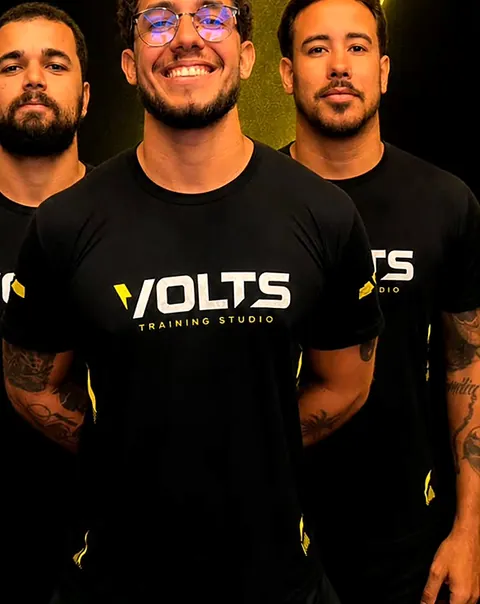
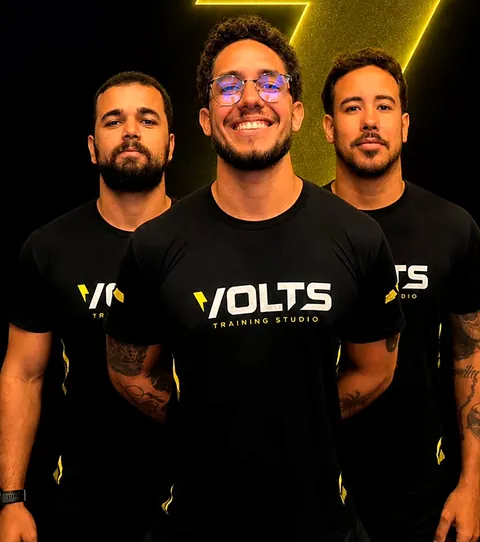
Ajustes do cliente: frase sem prender a rolagem, Já é aluno no topo, foto da equipe
- Manifesto não fica mais fixo: a frase acende sozinha ao entrar na tela
- Já é aluno? sobe para o topo do bloco Como chegar, entra no cabeçalho (desktop) e no menu do celular
- Foto dos professores refeita com as cabeças inteiras, sem os traços de neon por cima
- Título da equipe dividido por palavras (sem linhas quebradas no celular)
- Vidro do cabeçalho num pseudo-elemento: o menu do celular voltava cortado

diff --git a/site/src/secoes/Manifesto.tsx b/site/src/secoes/Manifesto.tsx
@@ -1,6 +1,6 @@
 import { useEffect, useRef } from 'react'
 import { Foto } from '../componentes/Foto'
-import { gsap } from '../lib/rolagem'
+import { gsap, ScrollTrigger } from '../lib/rolagem'
 import './Manifesto.css'
 
 // frase da própria Volts (legendas de 05/10/2026); as palavras-chave acendem em amarelo
@@ -14,15 +14,15 @@ export function Manifesto() {
   useEffect(() => {
     const raiz = ref.current!
     const ctx = gsap.context(() => {
+      // a frase acende sozinha, palavra por palavra, quando entra na tela: a página não para aqui
       const palavras = gsap.utils.toArray<HTMLElement>('.mf-p')
-      const tl = gsap.timeline({
-        scrollTrigger: { trigger: '.mf-fixo', start: 'top top', end: '+=140%', pin: true, scrub: 0.6, anticipatePin: 1 },
-      })
-      tl.to(palavras, { opacity: 1, stagger: 0.12, duration: 0.5, ease: 'none' }, 0)
-        .to('.mf-p--chave', { color: '#d6f600', textShadow: '0 0 28px rgba(214,246,0,.45)', stagger: 0.6, duration: 0.4, ease: 'none' }, 0.3)
-        .fromTo('.mf-carga i', { scaleX: 0 }, { scaleX: 1, ease: 'none', duration: tl.duration() || 3 }, 0)
+      const tl = gsap.timeline({ paused: true })
+      tl.to(palavras, { opacity: 1, stagger: 0.045, duration: 0.45, ease: 'power1.out' }, 0)
+        .to('.mf-p--chave', { color: '#d6f600', textShadow: '0 0 28px rgba(214,246,0,.45)', stagger: 0.18, duration: 0.5, ease: 'power1.out' }, 0.5)
+        .fromTo('.mf-carga i', { scaleX: 0 }, { scaleX: 1, ease: 'power2.inOut', duration: tl.duration() || 2 }, 0)
+      ScrollTrigger.create({ trigger: '.mf-texto', start: 'top 78%', once: true, onEnter: () => tl.play() })
 
-      // equipe: a foto abre pelo corte diagonal, a moldura de neon se desenha
+      // equipe: a foto abre pelo corte diagonal
       gsap.fromTo(
         '.mf-foto-recorte',
         { clipPath: 'polygon(0 0, 0 0, 0 100%, 0 100%)' },
@@ -34,11 +34,6 @@ export function Manifesto() {
         },
       )
       gsap.fromTo('.mf-foto img', { scale: 1.12 }, { scale: 1, ease: 'none', scrollTrigger: { trigger: '.mf-equipe', start: 'top bottom', end: 'bottom top', scrub: true } })
-      gsap.fromTo(
-        '.mf-moldura rect',
-        { strokeDashoffset: 1 },
-        { strokeDashoffset: 0, duration: 1.8, ease: 'power2.inOut', stagger: 0.25, scrollTrigger: { trigger: '.mf-equipe', start: 'top 65%', once: true } },
-      )
       gsap.from('.mf-citacao span', {
         yPercent: 120,
         opacity: 0,
@@ -74,12 +69,8 @@ export function Manifesto() {
       <div className="recipiente mf-equipe">
         <figure className="mf-foto">
           <div className="mf-foto-recorte">
-            <Foto nome="professores" alt="Três professores da Volts com a camisa preta do estúdio" sizes="(max-width: 899px) 92vw, 46vw" posicao="50% 4%" />
+            <Foto nome="professores" alt="Três professores da Volts com a camisa preta do estúdio" sizes="(max-width: 899px) 92vw, 46vw" posicao="50% 6%" />
           </div>
-          <svg className="mf-moldura" viewBox="0 0 100 100" preserveAspectRatio="none" aria-hidden="true">
-            <rect x="-3" y="-4" width="58" height="52" pathLength={1} className="q" />
-            <rect x="6" y="5" width="30" height="30" pathLength={1} className="v" />
-          </svg>
           <figcaption className="rotulo">Equipe Volts</figcaption>
         </figure>
         <div className="mf-equipe-texto">

diff --git a/site/src/secoes/Cabecalho.css b/site/src/secoes/Cabecalho.css
@@ -2,17 +2,27 @@
   position: fixed;
   inset: 0 0 auto 0;
   z-index: 50;
-  /* vidro translúcido: sempre visível sem apagar o salão 3D atrás */
+  box-shadow: 0 1px 0 rgba(238, 242, 234, 0.07);
+}
+/*
+ * Vidro translúcido: sempre visível sem apagar o salão 3D atrás. Fica num pseudo-elemento porque
+ * backdrop-filter no próprio cabeçalho prenderia o menu do celular (position: fixed) dentro dele.
+ */
+.cabecalho::before {
+  content: '';
+  position: absolute;
+  inset: 0;
+  z-index: -1;
   background: rgba(6, 9, 7, 0.24);
   -webkit-backdrop-filter: blur(12px) saturate(1.25);
   backdrop-filter: blur(12px) saturate(1.25);
-  box-shadow: 0 1px 0 rgba(238, 242, 234, 0.07);
   transition: background-color 0.5s var(--ease);
+  pointer-events: none;
 }
-.cabecalho--rolou {
+.cabecalho--rolou::before {
   background: rgba(6, 9, 7, 0.46);
 }
-.cabecalho--aberto {
+.cabecalho--aberto::before {
   background: var(--ink-0);
 }
 .cabecalho__barra {
@@ -70,6 +80,43 @@
   display: flex;
   align-items: center;
   gap: 10px;
+}
+.cabecalho__aluno {
+  position: relative;
+  margin-right: 8px;
+  padding: 10px 0;
+  font-family: var(--f-display);
+  font-weight: 700;
+  font-stretch: 106%;
+  font-size: 0.78rem;
+  letter-spacing: 0.07em;
+  text-transform: uppercase;
+  color: var(--fg);
+  text-decoration: underline;
+  text-decoration-color: var(--volt);
+  text-underline-offset: 6px;
+  white-space: nowrap;
+}
+.cabecalho__aluno:hover {
+  color: var(--volt);
+}
+.menu-celular__aluno {
+  display: flex;
+  align-items: center;
+  justify-content: space-between;
+  gap: 16px;
+  padding: 16px 18px;
+  background: var(--ink-3);
+  box-shadow: inset 3px 0 0 var(--volt);
+  font-size: 0.9375rem;
+  color: var(--fg-2);
+}
+.menu-celular__aluno strong {
+  color: var(--fg);
+}
+.menu-celular__aluno svg {
+  flex: none;
+  color: var(--volt);
 }
 .cabecalho__atalho {
   min-height: 44px;
@@ -160,7 +207,8 @@
 }
 
 @media (max-width: 1220px) {
-  .cabecalho__nav {
+  .cabecalho__nav,
+  .cabecalho__aluno {
     display: none;
   }
   .cabecalho__menu {

diff --git a/site/src/lib/efeitos.ts b/site/src/lib/efeitos.ts
@@ -5,7 +5,7 @@ gsap.registerPlugin(SplitText)
 
 /*
  * Efeitos ligados por atributo, para qualquer seção usar sem repetir código:
- *  data-titulo        linhas sobem de dentro de uma máscara quando o título entra na tela
+ *  data-titulo        palavras sobem de dentro de uma máscara quando o título entra na tela
  *  data-decodifica    rótulo que se "decodifica" letra a letra, como um painel ligando
  *  data-inclina       inclina com a velocidade do scroll
  *  data-parallax="n"  desloca n (fração da altura) enquanto atravessa a tela
@@ -38,19 +38,18 @@ export function ligarEfeitos(raiz: HTMLElement) {
   const finos = window.matchMedia('(pointer: fine)').matches
   const ctx = gsap.context(() => {
     raiz.querySelectorAll<HTMLElement>('[data-titulo]').forEach((el) => {
+      // dividido por palavras (não por linhas): as palavras se reorganizam sozinhas em qualquer
+      // largura, então a frase nunca fica com linhas quebradas no celular
       SplitText.create(el, {
-        type: 'lines',
-        mask: 'lines',
-        linesClass: 'linha-mascara',
-        autoSplit: true,
+        type: 'words',
+        mask: 'words',
+        wordsClass: 'palavra-mascara',
         onSplit(self) {
-          return gsap.from(self.lines, {
+          return gsap.from(self.words, {
             yPercent: 105,
-            rotate: 1,
-            transformOrigin: '0% 100%',
-            duration: 1.15,
+            duration: 0.9,
             ease: 'expo.out',
-            stagger: 0.085,
+            stagger: 0.022,
             scrollTrigger: { trigger: el, start: 'top 88%', once: true },
           })
         },

diff --git a/site/src/dados/volts.ts b/site/src/dados/volts.ts
@@ -76,7 +76,7 @@ export const programas: Programa[] = [
     paraQuem: 'Para quem quer acompanhamento próximo e um treino montado para o próprio objetivo.',
     focos: ['Emagrecimento', 'Força', 'Hipertrofia', 'Condicionamento', 'Saúde e qualidade de vida'],
     detalhe: 'Acompanhamento próximo e toda a estrutura da Volts para a sua evolução.',
-    foto: { src: 'professores', alt: 'Professores da Volts com a camisa preta do estúdio', posicao: '50% 30%' },
+    foto: { src: 'professores', alt: 'Professores da Volts com a camisa preta do estúdio', posicao: '50% 0%' },
     acao: { rotulo: 'Quero experimentar', mensagem: 'Oi, Volts! Vim pelo site e quero agendar uma aula experimental de VoltsClass.' },
   },
   {
@@ -137,7 +137,7 @@ export const diferenciais = [
     foto: 'professores',
     alt: 'Três professores da Volts',
     resumo: 'Professores em cada treino',
-    posicao: '50% 30%',
+    posicao: '50% 0%',
   },
   {
     titulo: 'Grupos reduzidos',
@@ -208,7 +208,7 @@ export const perguntas = [
   },
   {
     p: 'Já sou aluno. Onde agendo minhas aulas?',
-    r: 'Na área do aluno, no sistema de agendamento da Volts. O link está no rodapé desta página.',
+    r: 'Na área do aluno, no sistema de agendamento da Volts. O link "Já é aluno?" fica no topo (no menu, pelo celular), no bloco Como chegar e no rodapé desta página.',
   },
 ]
 

diff --git a/site/src/secoes/Cabecalho.tsx b/site/src/secoes/Cabecalho.tsx
@@ -85,6 +85,9 @@ export function Cabecalho() {
         </nav>
 
         <div className="cabecalho__acoes">
+          <a className="cabecalho__aluno" href={contato.areaDoAluno} target="_blank" rel="noopener">
+            Já é aluno?
+          </a>
           <a className="botao botao--fantasma cabecalho__atalho cabecalho__atalho--camisa" href="#comprar-camisa" data-cursor="Comprar">
             <Icone nome="camisa" tamanho={17} className="cabecalho__icone" />
             <span>
@@ -112,6 +115,12 @@ export function Cabecalho() {
       </div>
 
       <div id="menu-celular" ref={painelRef} className="menu-celular" hidden={!aberto} role="dialog" aria-modal="true" aria-label="Menu">
+        <a className="menu-celular__aluno" href={contato.areaDoAluno} target="_blank" rel="noopener">
+          <span>
+            <strong>Já é aluno?</strong> Agende suas aulas na área do aluno.
+          </span>
+          <Icone nome="externo" tamanho={18} />
+        </a>
         <nav aria-label="Seções da página">
           <ol className="menu-celular__lista">
             {LINKS.map((l, i) => (

diff --git a/site/src/secoes/Contato.tsx b/site/src/secoes/Contato.tsx
@@ -22,6 +22,12 @@ export function Contato() {
 
         <div className="contato__grade">
           <div className="contato__info" data-revelar>
+            <a className="contato__aluno" href={contato.areaDoAluno} target="_blank" rel="noopener">
+              <span>
+                <strong>Já é aluno?</strong> Agende suas aulas na área do aluno.
+              </span>
+              <Icone nome="externo" tamanho={18} />
+            </a>
             <dl className="contato__lista">
               <div>
                 <dt>
@@ -89,12 +95,6 @@ export function Contato() {
                 <Icone nome="mapa" /> Abrir rota
               </a>
             </div>
-            <a className="contato__aluno" href={contato.areaDoAluno} target="_blank" rel="noopener">
-              <span>
-                <strong>Já é aluno?</strong> Agende suas aulas na área do aluno.
-              </span>
-              <Icone nome="externo" tamanho={18} />
-            </a>
           </div>
 
           <div className="contato__mapa" data-revelar style={{ ['--atraso' as string]: 120 }}>

diff --git a/site/src/secoes/Manifesto.css b/site/src/secoes/Manifesto.css
@@ -3,11 +3,7 @@
   background: var(--ink-0);
 }
 .mf-fixo {
-  min-height: 100vh;
-  min-height: 100svh;
-  display: flex;
-  align-items: center;
-  padding-block: calc(var(--cabecalho) + 32px) 48px;
+  padding-block: clamp(110px, 12vw, 170px) 24px;
 }
 .mf-texto {
   margin-top: 28px;
@@ -59,29 +55,6 @@
   width: 100%;
   height: 100%;
   object-fit: cover;
-}
-.mf-moldura {
-  position: absolute;
-  inset: 0;
-  width: 100%;
-  height: 100%;
-  overflow: visible;
-  pointer-events: none;
-}
-.mf-moldura rect {
-  fill: none;
-  stroke-width: 1.6px;
-  vector-effect: non-scaling-stroke;
-  stroke-dasharray: 1;
-  stroke-dashoffset: 1;
-}
-.mf-moldura .q {
-  stroke: var(--quente);
-  filter: drop-shadow(0 0 8px rgba(243, 230, 207, 0.6));
-}
-.mf-moldura .v {
-  stroke: var(--neon);
-  filter: drop-shadow(0 0 10px rgba(70, 240, 140, 0.8));
 }
 .mf-foto figcaption {
   margin-top: 16px;

diff --git a/site/src/secoes/Contato.css b/site/src/secoes/Contato.css
@@ -73,13 +73,13 @@
   gap: 10px;
 }
 .contato__aluno {
-  margin-top: auto;
   display: flex;
   align-items: center;
   justify-content: space-between;
   gap: 16px;
   padding: 16px 18px;
   background: var(--ink-3);
+  box-shadow: inset 3px 0 0 var(--volt);
   font-size: 0.9rem;
   color: var(--fg-2);
   transition: box-shadow 0.3s var(--ease);
@@ -92,7 +92,9 @@
   flex: none;
 }
 .contato__aluno:hover {
-  box-shadow: inset 0 0 0 1px var(--volt);
+  box-shadow:
+    inset 3px 0 0 var(--volt),
+    inset 0 0 0 1px var(--volt);
 }
 
 .contato__mapa {

diff --git a/site/src/estilos/base.css b/site/src/estilos/base.css
@@ -517,10 +517,10 @@ body.pausado *::after {
     --ang: 360deg;
   }
 }
-/* títulos divididos em linhas pelo SplitText */
-.linha-mascara {
-  padding-bottom: 0.08em;
-  margin-bottom: -0.08em;
+/* títulos divididos em palavras pelo SplitText (a máscara não corta as letras que descem) */
+.palavra-mascara {
+  padding-bottom: 0.12em;
+  margin-bottom: -0.12em;
 }
 
 html.travado {

diff --git a/ferramentas/imagens.py b/ferramentas/imagens.py
@@ -20,7 +20,9 @@ FOTOS = {
     "fachada-raio": dict(src="quadros/fachada-raio-a.jpg", box=(0, 0.04, 0.70, 0.92), larguras=[420, 560], grade="leve"),
     "fachada": dict(src="quadros/fachada-ext-a.jpg", box=(0, 0.13, 1, 0.56), larguras=[480, 720], grade="leve"),
     "equipamentos": dict(src="quadros/equip-a.jpg", box=(0, 0.02, 1, 0.66), larguras=[480, 720], grade="neon"),
-    "professores": dict(src="Dcvn-bJunIQ_hd.jpg", box=(0.46, 0.49, 1, 1), larguras=[480, 780], grade="leve"),
+    # cabeças inteiras: o recorte sobe até acima do cabelo; o fim do texto do post ("...ÇÃO") que
+    # entraria no canto é coberto com o próprio fundo preto da arte (apagar = caixas em fração da original)
+    "professores": dict(src="Dcvn-bJunIQ_hd.jpg", box=(0.31, 0.415, 1, 1), apagar=[(0.30, 0.40, 0.456, 0.47), (0.30, 0.46, 0.35, 0.50)], larguras=[480, 860], grade="leve"),
     "ativa": dict(src="Dd4ffYTxktp_hd.jpg", box=(0.14, 0.095, 0.96, 0.52), larguras=[600, 1100], grade="leve"),
     "corrida": dict(src="DdFMBo1tWF0_hd.jpg", box=(0.495, 0.15, 0.885, 0.98), larguras=[480, 720], grade="leve"),
     "meia-maratona": dict(src="DdeB0bGuG2c_hd.jpg", box=(0, 0.10, 1, 0.43), larguras=[720, 1400], grade="leve"),
@@ -50,6 +52,12 @@ def main(preview: bool) -> None:
     for nome, cfg in FOTOS.items():
         im = Image.open(BRUTO / cfg["src"]).convert("RGB")
         w, h = im.size
+        for al, at, ar, ab in cfg.get("apagar", []):
+            caixa = (round(al * w), round(at * h), round(ar * w), round(ab * h))
+            # cor do fundo: mediana dos pixels escuros da própria área (ignora as letras)
+            escuros = sorted(px for px in im.crop(caixa).getdata() if sum(px) < 90)
+            fundo = escuros[len(escuros) // 2] if escuros else (0, 0, 0)
+            im.paste(fundo, caixa)
         l, t, r, b = cfg["box"]
         im = im.crop((round(l * w), round(t * h), round(r * w), round(b * h)))
         im = tratar(im, cfg["grade"])
